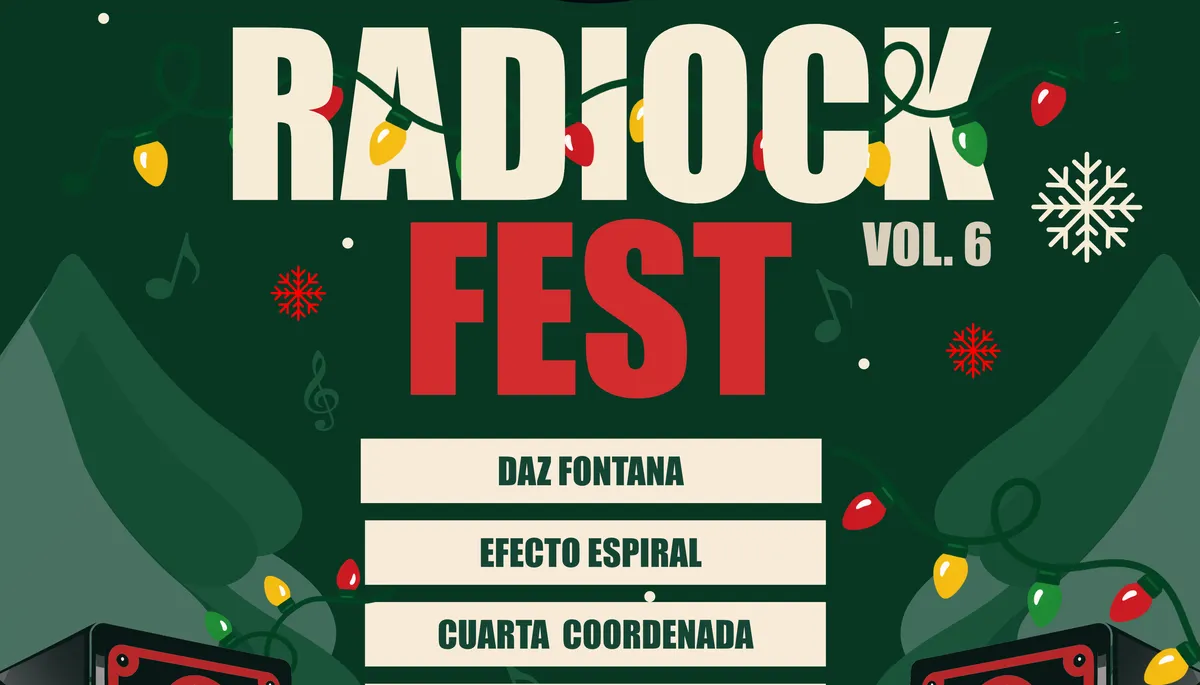
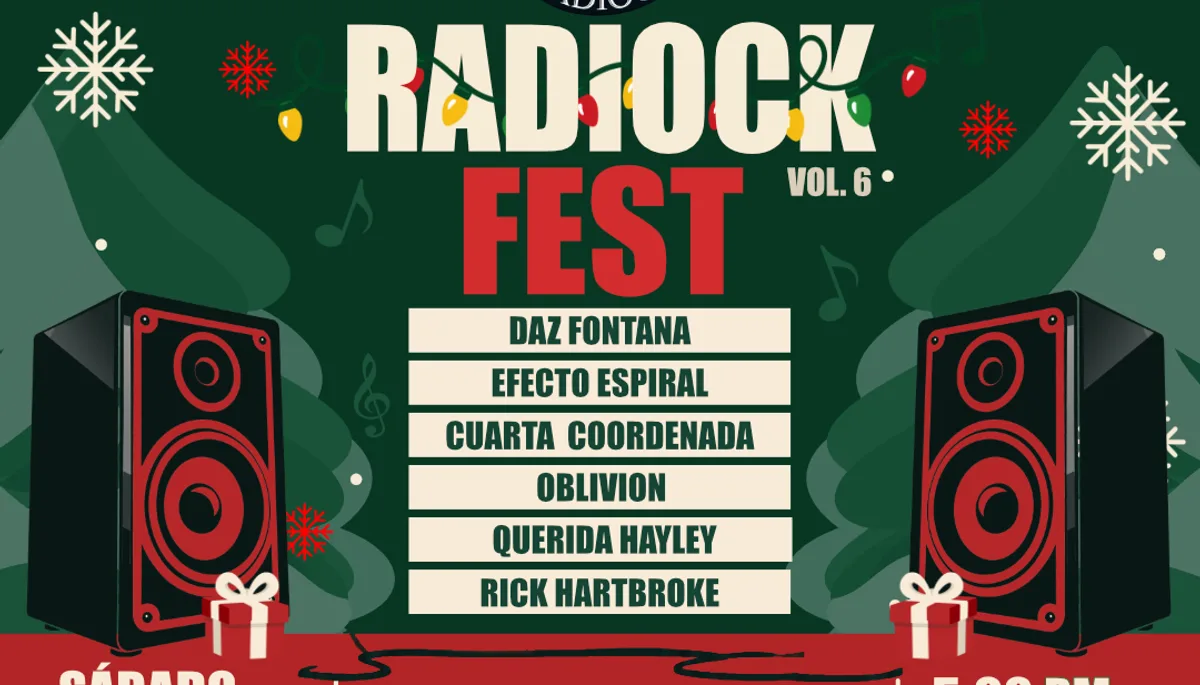
Usa el póster de Instagram para Vol. 6 y pasa los eventos al archivo al día siguiente
- Vol. 6 usa el póster cuadrado de Instagram. Los eventos pueden indicar
  las medidas de su cartel (cartelMedidas); por defecto, 1000×1545.
- El navegador vuelve a revisar la fecha al abrir la página
  (useAgendaEnVivo): al día siguiente de su fecha, el evento pasa solo a
  "Eventos anteriores", aparece el aviso de la siguiente fecha si no
  quedan próximos, y su página cambia a "Evento finalizado", sin volver
  a compilar.

Claude-Session: https://claude.ai/code/session_01YbfxjepG25up53ANJ8QMqk

diff --git a/tests/e2e/agenda.spec.ts b/tests/e2e/agenda.spec.ts
@@ -1,0 +1,74 @@
+import type { Page } from '@playwright/test';
+import { expect, test } from './soporte/prueba';
+import { URL_SITIO } from './soporte/urls';
+
+/**
+ * Un evento próximo pasa solo a "Eventos anteriores" cuando su fecha ya pasó, aunque el sitio
+ * se haya compilado antes. Se simula el reloj del navegador (hora de Tijuana, UTC-8 en diciembre).
+ */
+const abrirEn = async (page: Page, instante: string, ruta = '/') => {
+  await page.clock.install({ time: new Date(instante) });
+  await page.goto(`${URL_SITIO}${ruta}`);
+};
+
+/** Próximos con los que se compiló el sitio; si no hay, estas pruebas no aplican. */
+const proximosCompilados = (page: Page) =>
+  page.locator('[data-evento-proximo]').evaluateAll((tarjetas: HTMLElement[]) =>
+    tarjetas.map((t) => ({ id: t.dataset.id!, fecha: t.dataset.fecha! })));
+
+test.describe('agenda en vivo', () => {
+  test('antes de la fecha, el evento sigue en próximos y no en el archivo', async ({ page }) => {
+    await abrirEn(page, '2026-11-25T12:00:00-08:00');
+    const [primero] = await proximosCompilados(page);
+    test.skip(!primero || primero.fecha < '2026-11-25', 'el sitio se compiló sin eventos próximos a esa fecha');
+    await expect(page.locator(`[data-evento-proximo][data-id="${primero.id}"]`)).toBeVisible();
+    await expect(page.locator(`[data-evento-archivo][data-id="${primero.id}"]`)).toBeHidden();
+    await expect(page.locator('[data-agenda-vacio]')).toBeHidden();
+  });
+
+  test('el mismo día del evento todavía es próximo', async ({ page }) => {
+    await page.goto(URL_SITIO);
+    const [primero] = await proximosCompilados(page);
+    test.skip(!primero, 'el sitio se compiló sin eventos próximos');
+    await abrirEn(page, `${primero.fecha}T23:30:00-08:00`);
+    await expect(page.locator(`[data-evento-proximo][data-id="${primero.id}"]`)).toBeVisible();
+  });
+
+  test('al día siguiente pasa a "Eventos anteriores" y, sin más próximos, aparece el aviso', async ({ page }) => {
+    await page.goto(URL_SITIO);
+    const proximos = await proximosCompilados(page);
+    test.skip(!proximos.length, 'el sitio se compiló sin eventos próximos');
+    const ultimo = proximos[proximos.length - 1];
+    const diaSiguiente = new Date(`${ultimo.fecha}T12:00:00-08:00`);
+    diaSiguiente.setUTCDate(diaSiguiente.getUTCDate() + 1);
+    await abrirEn(page, diaSiguiente.toISOString());
+
+    for (const { id } of proximos) {
+      await expect(page.locator(`[data-evento-proximo][data-id="${id}"]`)).toBeHidden();
+      await expect(page.locator(`[data-evento-archivo][data-id="${id}"]`)).toBeVisible();
+    }
+    await expect(page.locator('[data-agenda-vacio]')).toBeVisible();
+    await expect(page.getByText('La próxima fecha comienza a tomar forma.')).toBeVisible();
+    // Queda al final del archivo, en orden cronológico.
+    await expect(page.locator('[data-evento-archivo]:not([hidden])').last()).toHaveAttribute('data-id', ultimo.id);
+    await expect(page.locator('[data-agenda-recorrido]')).toBeVisible();
+  });
+
+  test('la página del evento cambia a "Evento finalizado" y muestra el archivo de fotos', async ({ page }) => {
+    await page.goto(URL_SITIO);
+    const [primero] = await proximosCompilados(page);
+    test.skip(!primero, 'el sitio se compiló sin eventos próximos');
+    const ruta = `/eventos/${primero.id}`;
+
+    await abrirEn(page, `${primero.fecha}T12:00:00-08:00`, ruta);
+    await expect(page.getByText('PRÓXIMO EVENTO', { exact: true })).toBeVisible();
+    await expect(page.locator('#galeria')).toBeHidden();
+
+    const diaSiguiente = new Date(`${primero.fecha}T12:00:00-08:00`);
+    diaSiguiente.setUTCDate(diaSiguiente.getUTCDate() + 1);
+    await abrirEn(page, diaSiguiente.toISOString(), ruta);
+    await expect(page.getByText('EVENTO FINALIZADO', { exact: true })).toBeVisible();
+    await expect(page.getByText('NUESTRO RECORRIDO / EVENTO ANTERIOR')).toBeVisible();
+    await expect(page.locator('#galeria')).toBeVisible();
+  });
+});

diff --git a/src/eventos/hooks/useAgendaEnVivo.ts b/src/eventos/hooks/useAgendaEnVivo.ts
@@ -1,0 +1,57 @@
+import { fechaIsoEn, sitio, type FechaIso } from '@/compartido';
+import { yaPaso } from '../domain/Evento';
+
+/** Día de hoy en la zona horaria de Radiock, según el reloj de quien visita. */
+const hoyEnRadiock = (): FechaIso => fechaIsoEn(new Date(), sitio.zonaHoraria);
+
+/**
+ * El sitio es estático: al compilar decide qué eventos son próximos. Este hook vuelve a decidirlo
+ * al abrir la página, así un evento pasa solo a "Eventos anteriores" el día después de su fecha,
+ * sin volver a compilar. Sin JavaScript se queda lo que se decidió al compilar.
+ *
+ * Marcado esperado (EventosOrganizados.astro):
+ *   [data-agenda] > [data-agenda-proximos] > [data-evento-proximo][data-id][data-fecha]
+ *                 > [data-agenda-vacio]          (aviso "La próxima fecha comienza a tomar forma")
+ *                 > [data-agenda-recorrido]      (enlace "Nuestro recorrido")
+ *                 > [data-agenda-anteriores] > [data-evento-archivo][data-id]
+ */
+export function useAgendaEnVivo(raiz: HTMLElement | null, hoy: FechaIso = hoyEnRadiock()): void {
+  if (!raiz) return;
+  const proximos = Array.from(raiz.querySelectorAll<HTMLElement>('[data-evento-proximo]'));
+  for (const tarjeta of proximos) {
+    if (!yaPaso(tarjeta.dataset.fecha ?? '', hoy)) continue;
+    tarjeta.hidden = true;
+    const archivo = raiz.querySelector<HTMLElement>(`[data-evento-archivo][data-id="${tarjeta.dataset.id}"]`);
+    if (archivo) archivo.hidden = false;
+  }
+
+  const quedanProximos = proximos.some((tarjeta) => !tarjeta.hidden);
+  const lista = raiz.querySelector<HTMLElement>('[data-agenda-proximos]');
+  if (lista) {
+    lista.hidden = !quedanProximos;
+    // Con un solo próximo, la tarjeta usa el diseño de cartel y datos lado a lado.
+    lista.dataset.cantidad = String(proximos.filter((tarjeta) => !tarjeta.hidden).length);
+  }
+  const vacio = raiz.querySelector<HTMLElement>('[data-agenda-vacio]');
+  if (vacio) vacio.hidden = quedanProximos;
+
+  const hayAnteriores = Array.from(raiz.querySelectorAll<HTMLElement>('[data-evento-archivo]')).some((tarjeta) => !tarjeta.hidden);
+  raiz.querySelectorAll<HTMLElement>('[data-agenda-anteriores], [data-agenda-recorrido]').forEach((elemento) => {
+    elemento.hidden = !hayAnteriores;
+  });
+}
+
+/**
+ * En la página de un evento compilada como próximo: si su fecha ya pasó, cambia los textos a
+ * "evento finalizado" y muestra la sección del archivo de fotografías.
+ *
+ * Marcado esperado (PortadaEvento.astro y PaginaEvento.astro):
+ *   [data-evento-fecha] con elementos [data-texto-finalizado]; [data-solo-finalizado] oculto.
+ */
+export function useEstadoEventoEnVivo(raiz: HTMLElement | null, hoy: FechaIso = hoyEnRadiock()): void {
+  if (!raiz || !yaPaso(raiz.dataset.eventoFecha ?? '', hoy)) return;
+  raiz.querySelectorAll<HTMLElement>('[data-texto-finalizado]').forEach((elemento) => {
+    elemento.textContent = elemento.dataset.textoFinalizado ?? elemento.textContent;
+  });
+  document.querySelectorAll<HTMLElement>('[data-solo-finalizado]').forEach((elemento) => { elemento.hidden = false; });
+}

diff --git a/src/eventos/styles/eventos-organizados.css b/src/eventos/styles/eventos-organizados.css
@@ -48,6 +48,10 @@
   .past-event h3 {
     margin-bottom:8px
   }
+  /* Elementos que useAgendaEnVivo muestra u oculta según la fecha de hoy. */
+  .events-section [hidden] {
+    display:none!important
+  }
   .event-grid {
     display:grid;
     grid-template-columns:repeat(2,1fr);
@@ -70,29 +74,33 @@
   .event-card p {
     margin-bottom:20px
   }
-  /* Un solo evento próximo: cartel a la izquierda y datos a la derecha, en vez de media cuadrícula vacía. */
+  /* Un solo evento próximo (data-cantidad=1, ver useAgendaEnVivo): cartel a la izquierda y datos a la derecha. */
   @media(min-width:768px) {
-    .event-card:only-child {
+    .event-grid[data-cantidad="1"] .event-card {
       grid-column:1/-1;
       display:grid;
       grid-template-columns:clamp(260px,32vw,400px) 1fr;
       grid-template-rows:1fr repeat(5,auto) 1fr;
       column-gap:clamp(30px,4vw,50px)
     }
-    .event-card:only-child img {
+    .event-grid[data-cantidad="1"] .event-card img {
       grid-row:1/-1;
-      margin-bottom:0
+      margin-bottom:0;
+      /* Las medidas reales del cartel (vertical o cuadrado), sin franjas vacías. */
+      aspect-ratio:auto;
+      height:auto;
+      align-self:center
     }
-    .event-card:only-child>:not(img) {
+    .event-grid[data-cantidad="1"] .event-card>:not(img) {
       grid-column:2;
       justify-self:start
     }
-    .event-card:only-child time { grid-row:2 }
-    .event-card:only-child h3 { grid-row:3 }
-    .event-card:only-child p:nth-of-type(1) { grid-row:4 }
-    .event-card:only-child p:nth-of-type(2) { grid-row:5 }
-    .event-card:only-child a { grid-row:6 }
-    .event-card:only-child h3 {
+    .event-grid[data-cantidad="1"] .event-card time { grid-row:2 }
+    .event-grid[data-cantidad="1"] .event-card h3 { grid-row:3 }
+    .event-grid[data-cantidad="1"] .event-card p:nth-of-type(1) { grid-row:4 }
+    .event-grid[data-cantidad="1"] .event-card p:nth-of-type(2) { grid-row:5 }
+    .event-grid[data-cantidad="1"] .event-card a { grid-row:6 }
+    .event-grid[data-cantidad="1"] .event-card h3 {
       font-size:clamp(1.6rem,3vw,2.6rem)
     }
   }

diff --git a/src/eventos/domain/Evento.ts b/src/eventos/domain/Evento.ts
@@ -9,8 +9,10 @@ export interface Evento extends Identificable {
   readonly hora?: string;
   readonly venue: string;
   readonly ciudad: string;
-  /** Cartel completo (vertical). */
+  /** Cartel completo. */
   readonly cartel: string;
+  /** Medidas del cartel en píxeles; si faltan, 1000×1545 (vertical, como los primeros carteles). */
+  readonly cartelMedidas?: { readonly ancho: number; readonly alto: number };
   /** Imagen horizontal para el archivo; si falta se usa el cartel. */
   readonly miniatura?: string;
   /** Nombres tal como aparecen en el cartel. */
@@ -19,13 +21,18 @@ export interface Evento extends Identificable {
 
 export type EstadoEvento = 'proximo' | 'finalizado';
 
-/** Un evento sigue siendo próximo durante todo el día en que ocurre. */
+/** Un evento sigue siendo próximo durante todo el día en que ocurre; pasa al archivo al día siguiente. */
+export const yaPaso = (fecha: FechaIso, hoy: FechaIso): boolean => fecha < hoy;
+
 export const estadoEvento = (evento: Evento, hoy: FechaIso): EstadoEvento =>
-  evento.fecha >= hoy ? 'proximo' : 'finalizado';
+  yaPaso(evento.fecha, hoy) ? 'finalizado' : 'proximo';
 
 export const rutaEvento = (evento: Pick<Evento, 'id'>): string => `${RUTA_EVENTOS}/${evento.id}`;
 
 export const imagenArchivo = (evento: Evento): string => evento.miniatura ?? evento.cartel;
+
+export const medidasCartel = (evento: Evento): { ancho: number; alto: number } =>
+  evento.cartelMedidas ?? { ancho: 1000, alto: 1545 };
 
 const ordenPorFecha = (a: Evento, b: Evento) => a.fecha.localeCompare(b.fecha);
 export const ordenarPorFecha = (eventos: readonly Evento[]): Evento[] => [...eventos].sort(ordenPorFecha);

diff --git a/src/eventos/domain/AgendaEventos.test.ts b/src/eventos/domain/AgendaEventos.test.ts
@@ -2,7 +2,7 @@ import { describe, expect, it } from 'vitest';
 import { RepositorioEnMemoria } from '@/compartido';
 import { eventos } from '../data/eventos';
 import { AgendaEventos } from './AgendaEventos';
-import { estadoEvento, imagenArchivo, rutaEvento } from './Evento';
+import { estadoEvento, imagenArchivo, medidasCartel, rutaEvento, yaPaso } from './Evento';
 
 const agendaEl = (hoy: string) => new AgendaEventos(new RepositorioEnMemoria(eventos), () => hoy);
 const ids = (lista: { id: string }[]) => lista.map((e) => e.id);
@@ -30,6 +30,18 @@ describe('AgendaEventos', () => {
 });
 
 describe('Evento', () => {
+  it('yaPaso: el día del evento todavía no ha pasado; al día siguiente sí', () => {
+    expect(yaPaso('2026-12-05', '2026-12-04')).toBe(false);
+    expect(yaPaso('2026-12-05', '2026-12-05')).toBe(false);
+    expect(yaPaso('2026-12-05', '2026-12-06')).toBe(true);
+  });
+
+  it('medidasCartel: usa las del evento o 1000×1545 por defecto', () => {
+    const [vol1] = eventos;
+    expect(medidasCartel(vol1)).toEqual({ ancho: 1000, alto: 1545 });
+    expect(medidasCartel({ ...vol1, cartelMedidas: { ancho: 1080, alto: 1080 } })).toEqual({ ancho: 1080, alto: 1080 });
+  });
+
   const [vol1] = eventos;
   it('calcula estado, ruta e imagen del archivo', () => {
     expect(estadoEvento(vol1, '2024-08-10')).toBe('proximo');

diff --git a/src/eventos/data/eventos.ts b/src/eventos/data/eventos.ts
@@ -70,6 +70,7 @@ export const eventos: readonly Evento[] = [
     venue: 'Border Psycho Cantina · Av. Revolución 821, Zona Centro',
     ciudad: 'Tijuana, B.C.',
     cartel: '/eventos/cartel-radiock-fest-vol-6.webp',
+    cartelMedidas: { ancho: 1080, alto: 1080 },
     miniatura: '/eventos/radiock-fest-vol-6.webp',
     bandas: ['Daz Fontana', 'Efecto Espiral', 'Cuarta Coordenada', 'Oblivion', 'Querida Hayley', 'Rick Hartbroke'],
   },

diff --git a/src/eventos/styles/detalle-evento.css b/src/eventos/styles/detalle-evento.css
@@ -18,6 +18,7 @@
   .event-detail-grid>img {
     max-height:850px;
     width:100%;
+    height:auto;
     object-fit:contain
   }
   .event-detail dl {
@@ -45,6 +46,9 @@
   .event-archive-note {
     @apply section shell;
     border-top:1px solid var(--line)
+  }
+  .event-archive-note[hidden] {
+    display:none
   }
   .event-archive-note>p:not(.eyebrow) {
     max-width:650px;

diff --git a/README.md b/README.md
@@ -140,7 +140,7 @@ Patrones: **Repository** (`RepositorioEnMemoria`), **Facade/API pública** (`ind
 | `src/contacto/constants/archivos.ts` | Límite total por envío (30 MB) |
 | `src/contacto/constants/mensajes.ts` | Textos fijos del formulario (saludo, estados del envío, avisos) |
 
-Los eventos pasados y futuros van en la misma lista. La agenda los separa en próximos o anteriores al comparar su fecha con el día actual en `America/Tijuana`; el día del evento todavía cuenta como próximo. Cada evento genera `/eventos/<id>`, con título, descripción y textos derivados de sus datos. Como el sitio es estático, la clasificación se calcula al compilar: después de un evento hay que volver a publicar para que pase al archivo. La compilación falla si una fecha no tiene formato `YYYY-MM-DD` o si un `id` está repetido. Las fechas se formatean en UTC para evitar que cambien de día según la zona horaria. `miniatura` es opcional; si falta, se utiliza el cartel. Las ciudades y géneros de bandas no confirmados se omiten. La participación en el primer festival proviene del cartel existente; las redes de Oblivion proceden de las plantillas originales.
+Los eventos pasados y futuros van en la misma lista. La agenda los separa en próximos o anteriores al comparar su fecha con el día actual en `America/Tijuana`; el día del evento todavía cuenta como próximo. Cada evento genera `/eventos/<id>`, con título, descripción y textos derivados de sus datos. La clasificación se calcula al compilar y se vuelve a revisar en el navegador de quien visita (`eventos/hooks/useAgendaEnVivo.ts`): al día siguiente de su fecha, un evento pasa solo a "Eventos anteriores" y su página cambia a "Evento finalizado", sin volver a compilar. Si no queda ningún próximo, aparece el aviso de la siguiente fecha. Sin JavaScript se ve lo que se decidió al compilar. La compilación falla si una fecha no tiene formato `YYYY-MM-DD` o si un `id` está repetido. Las fechas se formatean en UTC para evitar que cambien de día según la zona horaria. `miniatura` es opcional; si falta, se utiliza el cartel. `cartelMedidas` indica las medidas del cartel cuando no es vertical de 1000×1545 (por ejemplo, un póster cuadrado de Instagram). Las ciudades y géneros de bandas no confirmados se omiten. La participación en el primer festival proviene del cartel existente; las redes de Oblivion proceden de las plantillas originales.
 
 ## Registro de bandas
 
@@ -210,6 +210,7 @@ Herramientas de desarrollo: `@astrojs/check`, TypeScript 5.6.2 (modo estricto), 
 
 | Archivo | Qué comprueba |
 | --- | --- |
+| `agenda.spec.ts` | Con el reloj del navegador simulado: el evento sigue en próximos el mismo día, al día siguiente pasa al archivo (al final, en orden) y aparece el aviso; su página cambia a "Evento finalizado" |
 | `galeria.spec.ts` | Galería de bandas: 12 fotos iniciales, "Ver más", filtro por banda, visor con flechas y Escape |
 | `navegacion.spec.ts` | Secciones y un solo H1, sin desbordamiento horizontal, menú móvil (Escape, foco, cerrar al navegar), carrusel, página de cada evento con sus textos, redirección `/evento` |
 | `registro-mensaje.spec.ts` | Formulario sin backend: obligatorios, mensaje generado, copiar al portapapeles, ocultar al editar |
